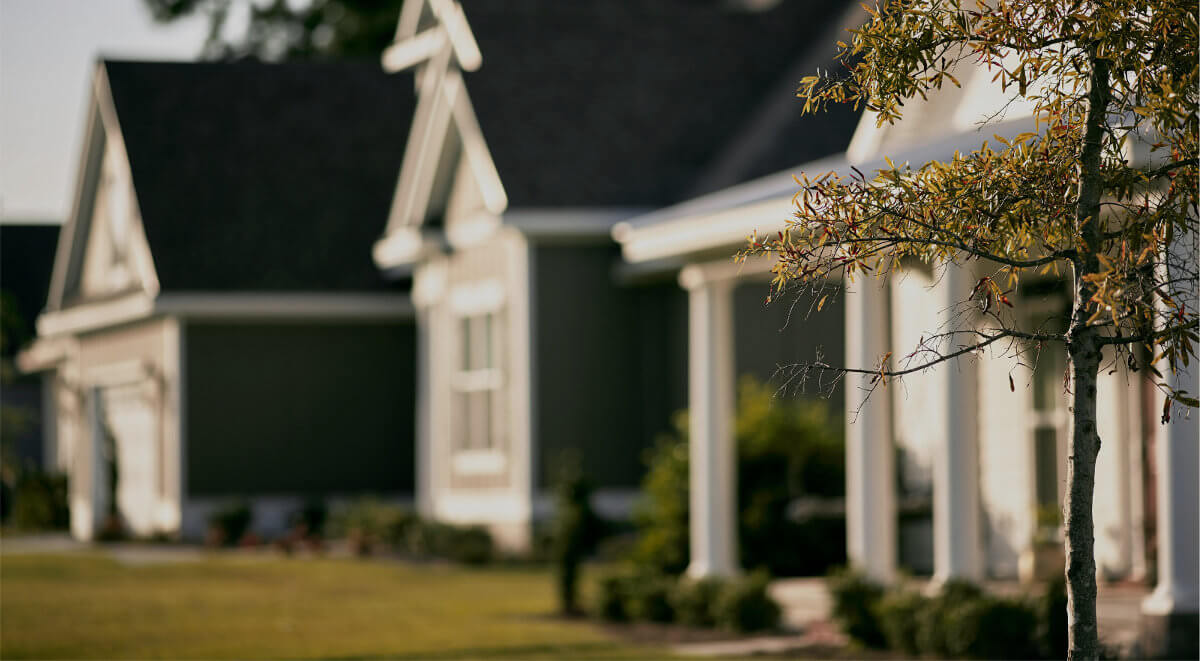
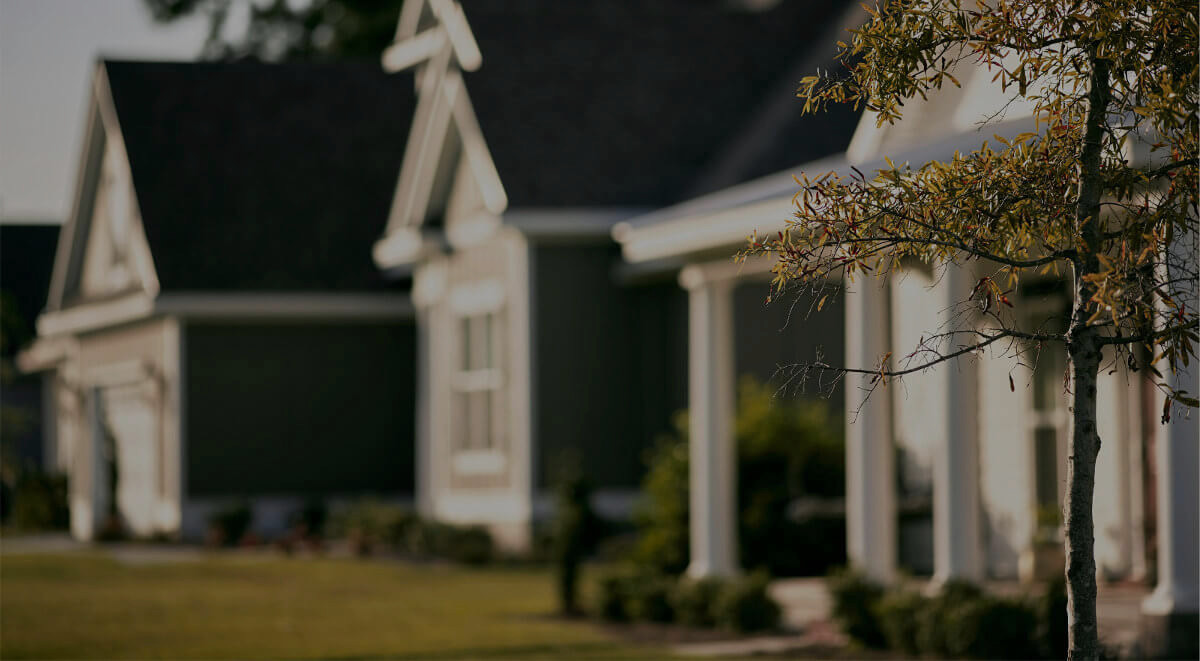
General clean up and begins footer

diff --git a/partials/listings.html b/partials/listings.html
@@ -11,72 +11,79 @@
 		<div class="page-header">
 			<h1>Listings</h1>
 		</div>
-		<div id="listing-filters" class="filter-box col-sm-4">
-			<h3>Filters</h2>
-			<div id="city-filter" class="row">
-				<h5>City</h5>
-				<button class="btn filter-btn col-sm-6" ng-click="listingFilters.city = listing.city" ng-repeat="listing in listings | unique: 'city'" onclick="$('#city-filter button').removeClass('used');$(this).toggleClass('used');">{{listing.city}}</button>
-			</div>
-			<div id="price-filter" class="row">
-				<h5>Price</h5>
-				<button class="btn filter-btn col-sm-4" ng-click="price.max = i * 100000" ng-repeat="i in [1,2,3,4,5,10]" onclick="$('#price-filter button').removeClass('used');$(this).toggleClass('used');">< ${{i * 100000}}</button>
-			</div>
-			<div id="beds-filter" class="row">
-				<h5>Beds</h5>
-				<button class="btn filter-btn col-sm-2" ng-click="listingFilters.beds = $index + 1" ng-repeat="i in [1,2,3,4,5,6]" onclick="$('#beds-filter button').removeClass('used');$(this).toggleClass('used');">{{$index + 1}}</button>
-			</div>
-			<div id="baths-filter" class="row">
-				<h5>Baths</h5>
-				<button class="btn filter-btn col-sm-2" ng-click="listingFilters.baths = $index + 1" ng-repeat="i in [1,2,3,4,5,6]" onclick="$('#baths-filter button').removeClass('used');$(this).toggleClass('used');">{{$index + 1}}</button>
-			</div>
-			<div id="sqft-filter" class="row">
-				<h5>Square Feet</h5>
-				<button class="btn filter-btn col-sm-3" ng-click="sqft.min = i * 1000" ng-repeat="i in [.5,1,2,3]" onclick="$('#sqft-filter button').removeClass('used');$(this).toggleClass('used');">{{i * 1000}}+</button>
-			</div>
-			<div id="lotsize-filter" class="row">
-				<h5>Lot Size</h5>
-				<button class="btn filter-btn col-sm-3" ng-click="lotsize.min = i * 1000" ng-repeat="i in [0,2,4,6,8,10,15,20]" onclick="$('#lotsize-filter button').removeClass('used');$(this).toggleClass('used');">{{i * 1000}}+</button>
-			</div>
-			<div id="listdesc-filter" class="row">
-				<h5>Keyword</h5>
-				<input type="text" class="col-sm-12 keyword-filter" ng-model="listingFilters.listdesc">
-			</div>
-			<br>
-			<button class="btn btn-lg btn-primary col-sm-12" ng-click="listingFilters = {}; price.max = 10000000; sqft.min = 0; lotsize.min = 0" onclick="$('#listing-filters button').removeClass('used');">Reset</button>
+		<div ng-hide="isLoggedIn()" ng-controller="authCtrl">
+			<h3><a href="/#/login">Log In</a> or <a href="/#/signup">Sign Up</a> to view all listings</h3>
 		</div>
-		<div class="col-sm-8">
-			<div id="listings" ng-repeat="listing in filteredListings = (listings | filter:listingFilters | sqftFilter:sqft.min | lotsizeFilter:lotsize.min | priceFilter:price.max)">
-				
-				<div class="clearfix">
-					<h2><a ng-href="/#/listings/{{listing.lid}}">{{listing.address}}</a></h2>
-					<div class="image-box">
-						<img class="img-responsive" ng-hide="!listing.images" ng-src="../api/v1/uploads/{{listing.images[0]}}" />
-					</div>
-					<h4>{{listing.city}}</h4>
-					<h5>Offered at ${{listing.price}}</h5>
-					<div class="row">
-						<ul class="col-sm-3">
-							<li>Beds: {{listing.beds}}</li>
-							<li>Baths: {{listing.baths}}</li>
-							<li>Square Footage: {{listing.sqft}}</li>
-							<li>Lot Size: {{listing.lotsize}}</li>
-						</ul>
-					  	<p class="col-sm-9">{{listing.listdesc}}</p>
-					  	<br>
-				  	</div>
-	        		<div class="row">
-	          			<div class="col-sm-3 col-sm-offset-3">
-	    					<button ng-click="saveListing(listing)" class="btn btn-primary">Save Listing</button>
-	          			</div>
-	        		</div>
+		<div ng-show="isLoggedIn()" ng-controller="authCtrl">
+			<div id="listing-filters" class="filter-box col-sm-4" ng-controller="ListingCtrl">
+				<h3>Filters</h2>
+				<div id="city-filter" class="row">
+					<h5>City</h5>
+					<button class="btn filter-btn col-sm-6" ng-click="listingFilters.city = listing.city" ng-repeat="listing in listings | unique: 'city'" onclick="$('#city-filter button').removeClass('used');$(this).toggleClass('used');">{{listing.city}}</button>
 				</div>
-				<hr>
+				<div id="price-filter" class="row">
+					<h5>Price</h5>
+					<button class="btn filter-btn col-sm-4" ng-click="price.max = i * 100000" ng-repeat="i in [1,2,3,4,5,10]" onclick="$('#price-filter button').removeClass('used');$(this).toggleClass('used');">< ${{i * 100000}}</button>
+				</div>
+				<div id="beds-filter" class="row">
+					<h5>Beds</h5>
+					<button class="btn filter-btn col-sm-2" ng-click="listingFilters.beds = $index + 1" ng-repeat="i in [1,2,3,4,5,6]" onclick="$('#beds-filter button').removeClass('used');$(this).toggleClass('used');">{{$index + 1}}</button>
+				</div>
+				<div id="baths-filter" class="row">
+					<h5>Baths</h5>
+					<button class="btn filter-btn col-sm-2" ng-click="listingFilters.baths = $index + 1" ng-repeat="i in [1,2,3,4,5,6]" onclick="$('#baths-filter button').removeClass('used');$(this).toggleClass('used');">{{$index + 1}}</button>
+				</div>
+				<div id="sqft-filter" class="row">
+					<h5>Square Feet</h5>
+					<button class="btn filter-btn col-sm-3" ng-click="sqft.min = i * 1000" ng-repeat="i in [.5,1,2,3]" onclick="$('#sqft-filter button').removeClass('used');$(this).toggleClass('used');">{{i * 1000}}+</button>
+				</div>
+				<div id="lotsize-filter" class="row">
+					<h5>Lot Size</h5>
+					<button class="btn filter-btn col-sm-3" ng-click="lotsize.min = i * 1000" ng-repeat="i in [0,2,4,6,8,10,15,20]" onclick="$('#lotsize-filter button').removeClass('used');$(this).toggleClass('used');">{{i * 1000}}+</button>
+				</div>
+				<div id="listdesc-filter" class="row">
+					<h5>Keyword</h5>
+					<input type="text" class="col-sm-12 keyword-filter" ng-model="listingFilters.listdesc">
+				</div>
+				<br>
+				<button class="btn btn-lg btn-primary col-sm-12" ng-click="listingFilters = {}; price.max = 10000000; sqft.min = 0; lotsize.min = 0" onclick="$('#listing-filters button').removeClass('used');">Reset</button>
 			</div>
-		</div>
-		<div ng-hide="filteredListings.length">
-			<h4>There are no listings within your set filters.</h4>
-			<br>
-			<button class="btn btn-primary col-sm-2" ng-click="listingFilters = {}; sqft.min = 0; price.max = 10000000;  lotsize.min = 0" onclick="$('#listing-filters button').removeClass('used');">Reset</button>
+			<div class="col-sm-8">
+				<div id="listings" ng-repeat="listing in filteredListings = (listings | filter:listingFilters | sqftFilter:sqft.min | lotsizeFilter:lotsize.min | priceFilter:price.max)">
+					
+					<div class="clearfix">
+						<a ng-href="/#/listings/{{listing.lid}}">
+							<h2>{{listing.address}}</h2>
+							<div class="image-box">
+								<img class="img-responsive" ng-hide="!listing.images" ng-src="../api/v1/uploads/{{listing.images[0]}}" />
+							</div>
+						</a>
+						<h4>{{listing.city}}</h4>
+						<h5>Offered at ${{listing.price}}</h5>
+						<div class="row">
+							<ul class="col-sm-3">
+								<li>Beds: {{listing.beds}}</li>
+								<li>Baths: {{listing.baths}}</li>
+								<li>Square Footage: {{listing.sqft}}</li>
+								<li>Lot Size: {{listing.lotsize}}</li>
+							</ul>
+						  	<p class="col-sm-9">{{listing.listdesc}}</p>
+						  	<br>
+					  	</div>
+		        		<div class="row">
+		          			<div class="col-sm-3 col-sm-offset-3">
+		    					<button ng-click="saveListing(listing)" class="btn btn-primary">Save Listing</button>
+		          			</div>
+		        		</div>
+					</div>
+					<hr>
+				</div>
+			</div>
+			<div ng-hide="filteredListings.length">
+				<h4>There are no listings within your set filters.</h4>
+				<br>
+				<button class="btn btn-primary col-sm-2" ng-click="listingFilters = {}; sqft.min = 0; price.max = 10000000;  lotsize.min = 0" onclick="$('#listing-filters button').removeClass('used');">Reset</button>
+			</div>
 		</div>
 	</div>
 </div>

diff --git a/css/custom.css b/css/custom.css
@@ -18,7 +18,7 @@ h1,h2,h3,h4,h5,h6 {
 }
 
 h1 {font-size:3.125em;font-weight:300; letter-spacing: 2px;}
-h2 {font-size:2.618em;font-weight:300; letter-spacing: 1px;}
+h2 {font-size:2.618em;font-weight:300;}
 h3 {font-size:1.931em;font-weight:700;}
 h4 {font-size:1.618em;font-weight:700;}
 h5 {font-size:1.194em;font-weight:300; text-transform: uppercase; letter-spacing: 1px;}
@@ -31,7 +31,7 @@ ul{
 	list-style: none;
 }
 a{
-	color: #333;
+	color: #3276b1;
 }
 a:hover{
 	cursor: pointer;
@@ -69,6 +69,9 @@ ul.simple-post-list {
 }
 .breadcrumb{
 	margin-bottom: 0;
+}
+.breadcrumb a {
+	color: #333;
 }
 .cart-btn{
 	border-radius:0;
@@ -179,8 +182,21 @@ ul.simple-post-list {
 
  .jumbotron .container-fluid {
  	width: 80%;
- 	padding-top: 48px;
+ 	padding-top: 0;
  }
+ .jumbotron h1 {
+ 	font-size: 72px;
+ }
+
+.jumbotron p {
+	line-height: 1.8;
+}
+.jumbotron .row {
+	margin: 5px auto;
+}
+.jumbotron .btn {
+	line-height: 2;
+}
 
  .jumbotron .btn-secondary{
 	 background: linear-gradient(to left, rgba(50,118,177, 0.1), rgba(255, 255, 255, 0.2));
@@ -198,7 +214,7 @@ ul.simple-post-list {
  	z-index: 1;
  	background-color: #fff;
  	max-width: 1080px;
- 	height: 800px;
+ 	min-height: 800px;
  	margin: 0 auto;
  	padding: 20px 0 50px;
  }
@@ -328,12 +344,28 @@ ul.simple-post-list {
 /*
 * MEDIA Qs
 ****/
-@media (max-width: 1080px) {
+@media (max-width: 1180px) {
 	.jumbotron .container-fluid {
 	 	width: 100%;
 	 	padding-top: 0;
 	 }
 }
+
+@media (max-width: 960px) {
+	.jumbotron {
+		padding: 30px 0;
+	}
+	.jumbotron h1 {
+		font-size: 63px;
+	}
+}
+
+@media (max-width: 810px) {
+	.jumbotron h1 {
+		font-size: 48px;
+	}
+}
+
 @media (max-width: 767px) {
 	/* navigation */
 	.navbar-collapse {
@@ -355,8 +387,13 @@ ul.simple-post-list {
 	.mobile-brand {
 		display: block!important;
 	}
-	.jumbotron h1 {
-		font-size: 63px;
+	.jumbotron {
+		padding: 0 0 30px;
+	}
+	.jumbotron .btn {
+		width: 400px;
+		max-width: 100%;
+		margin: 5px auto;
 	}
 	.filter-box {
  	padding: 0;
@@ -364,20 +401,29 @@ ul.simple-post-list {
 
 }
 
-@media (max-width: 600px) {
-	.jumbotron {
-		padding: 30px 0;
+@media (max-width: 675px) {
+	.jumbotron p {
+		font-size: 18px;
 	}
+}
+
+@media (max-width: 540px) {
 	.jumbotron h1 {
-		font-size: 4em;
+		font-size: 36px;
 	}
 }
 
 @media (max-width: 450px) {
 	.jumbotron {
-		padding: 15px 0;
+		padding: 0;
 	}
 	.jumbotron p {
 		font-size: 16px;
+	}
+}
+
+@media (max-width: 380px) {
+	.jumbotron h1 {
+		font-size: 28px;
 	}
 }

diff --git a/partials/home.html b/partials/home.html
@@ -1,16 +1,19 @@
 <div class="home-container">
 	<div id="bg" class="bg"></div>
-	<div class="jumbotron">
+	<div class="jumbotron text-center">
 		<div class="container-fluid">
 			<div class="row">
 				<h1 class="col-sm-12">CHEAP HOUSE LISTINGS</h1>
 			</div>
 			<div class="row">
-				<p class="col-sm-8">Search through a selection of investment properties to find the one that's right for you.</p>
+				<p class="col-md-8 col-md-offset-2">Join our network of VIP Cash Buyers to get first access to discounted investment properties in your area.</p>
 			</div>
 			<div class="row">
+				<div class="col-sm-4 col-sm-offset-2">
+					<a href="/#/signup"><button class="btn btn-primary btn-lg col-sm-12">SIGN UP</button></a>
+				</div>
 				<div class="col-sm-4">
-					<a href="/#/listings"><button class="btn btn-primary btn-lg col-sm-12">FIND A HOME</button></a>
+					<a href="/#/listings"><button class="btn btn-secondary btn-lg col-sm-12">VIEW ALL PROPERTIES</button></a>
 				</div>
 			</div>
 		</div>
@@ -18,15 +21,15 @@
 	<main class="home-content">
 		<div class="container-fluid">
 			<div class="row">
-				<h2 class="col-sm-6">Find a house near you</h2>
+				<h2 class="col-sm-6">Find a property near you</h2>
 			</div>
 			<div class="search-form-box">
-				<form ng-submit="setParams(city,price,beds,baths)" ng-controller="ListingCtrl" name="home-search" class="container-fluid" role="form">
+				<form ng-submit="setParams(city,priceQ,beds,baths)" ng-controller="ListingCtrl" name="home-search" class="container-fluid" role="form">
 					<div class="form-group city-search col-sm-3">
 						<input class="form-control" type="text" placeholder="City" ng-model="city">
 					</div>
 					<div class="form-group price-search col-sm-3">
-						<select class="form-control" name="cost" ng-model="price" ng-options="option.value as option.name for option in priceOptions">
+						<select class="form-control" name="cost" ng-model="priceQ" ng-options="option.value as option.name for option in priceOptions">
 						</select>
 					</div>
 					<div class="form-group bed-search col-sm-2">

diff --git a/app/ctrl.js b/app/ctrl.js
@@ -155,17 +155,17 @@ app.controller('ListingCtrl', function($scope, $route, $location, $http, $localS
         { name: '4 Baths', value: '4' },
         { name: '5+ Baths', value: '5' }
     ];
-    $scope.price = $scope.priceOptions[0].value;
+    $scope.priceQ = $scope.priceOptions[0].value;
     $scope.beds = $scope.bedOptions[0].value;
     $scope.baths = $scope.bathOptions[0].value;
-    $scope.setParams = function(city,price,beds,baths) {
+    $scope.setParams = function(city,priceQ,beds,baths) {
         delete $scope.$storage.city;
-        delete $scope.$storage.price;
+        delete $scope.$storage.priceQ;
         delete $scope.$storage.beds;
         delete $scope.$storage.baths;
         var citySearch = city.replace(/\w\S*/g, function(txt){return txt.charAt(0).toUpperCase() + txt.substr(1).toLowerCase();});
         $scope.$storage.city = citySearch;
-        $scope.$storage.price = price;
+        $scope.$storage.priceQ = priceQ;
         $scope.$storage.beds = beds;
         $scope.$storage.baths = baths;
         if ($location.url() != '/listings/search-results') {

diff --git a/app/app.js b/app/app.js
@@ -75,12 +75,12 @@ app.config([
               resolve: {
                 getParams: function( $localStorage ) {
                   $city = $localStorage.city;
-                  $price = $localStorage.price;
+                  $priceQ = $localStorage.priceQ;
                   $beds = $localStorage.beds;
                   $baths = $localStorage.baths;
                 },
                 getResults: ['searchListings', function(searchListings) {
-                    return searchListings.get('listings', $city, $price, $beds, $baths).then(function(res){
+                    return searchListings.get('listings', $city, $priceQ, $beds, $baths).then(function(res){
                         return res;
                     });
                 }]

diff --git a/partials/footer.html b/partials/footer.html
@@ -1,13 +1,13 @@
-<footer>
+<footer ng-controller="ListingCtrl">
   <div class="container">
     <div class="container footer-top row">
       <div class="col-sm-6">
         <h3>Cities</h3>
-        <ul class="nav">
-          <li>Fontana</li>
-          <li>Colton</li>
-          <li>San Bernardino</li>
-        </ul>
+        <div class="nav" >
+          <div ng-repeat="listing in listings">
+            <p>{{listing.city}}</p>
+          </div>
+        </div>
       </div>
       <div class="col-sm-6">
 

diff --git a/index.php b/index.php
@@ -25,7 +25,7 @@
       <div ng-view id="ng-view" autoscroll="true" class="" ng-controller="ViewCtrl">
 
       </div>
-    <ng-include ng-show="isReady()" src="'partials/footer.html'" ng-controller="ViewCtrl"></ng-include>
+    <ng-include src="'partials/footer.html'" ng-show="isReady()" ng-controller="ViewCtrl"></ng-include>
   </body>
   <toaster-container toaster-options="{'time-out': 3000}"></toaster-container>
   <!-- Libs -->
